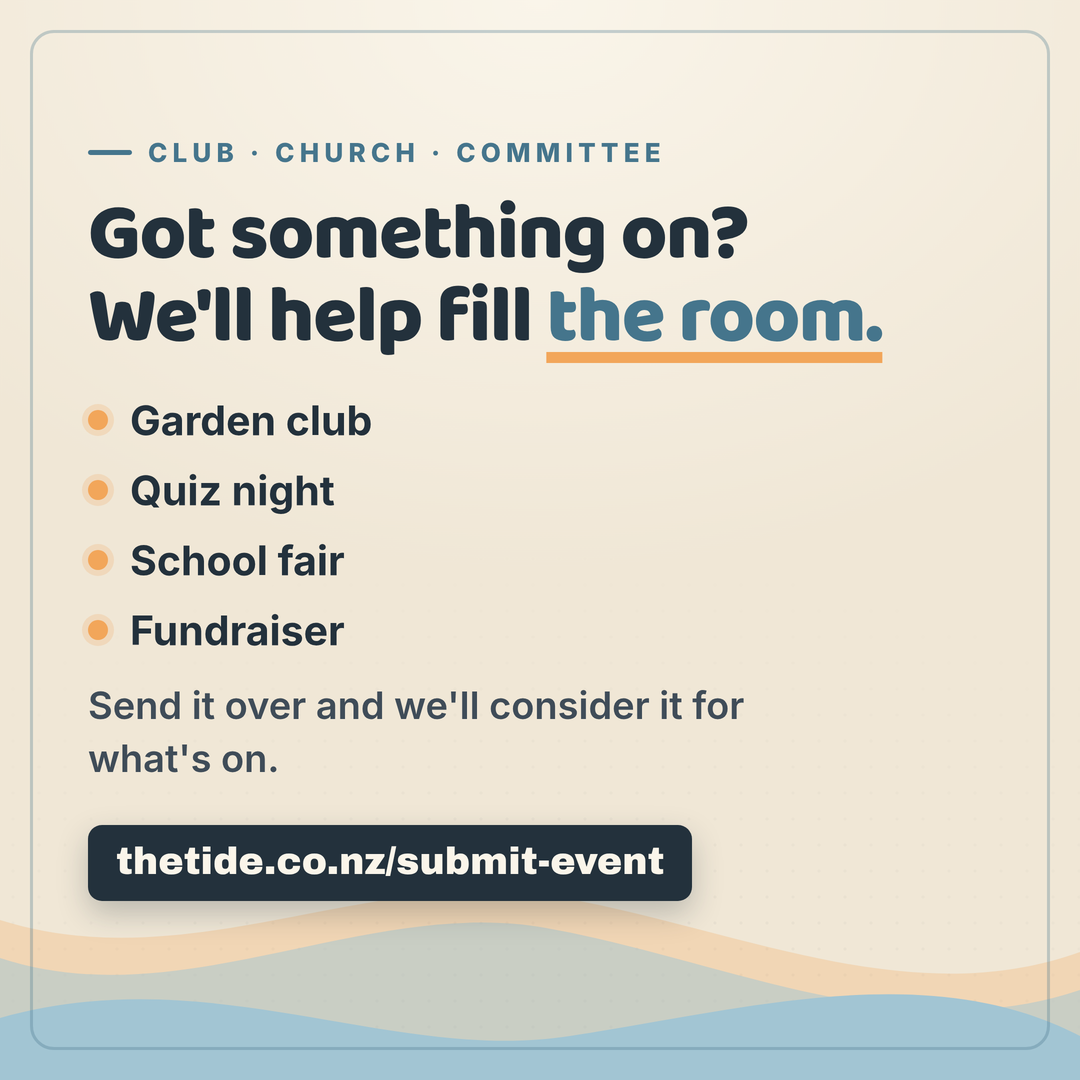
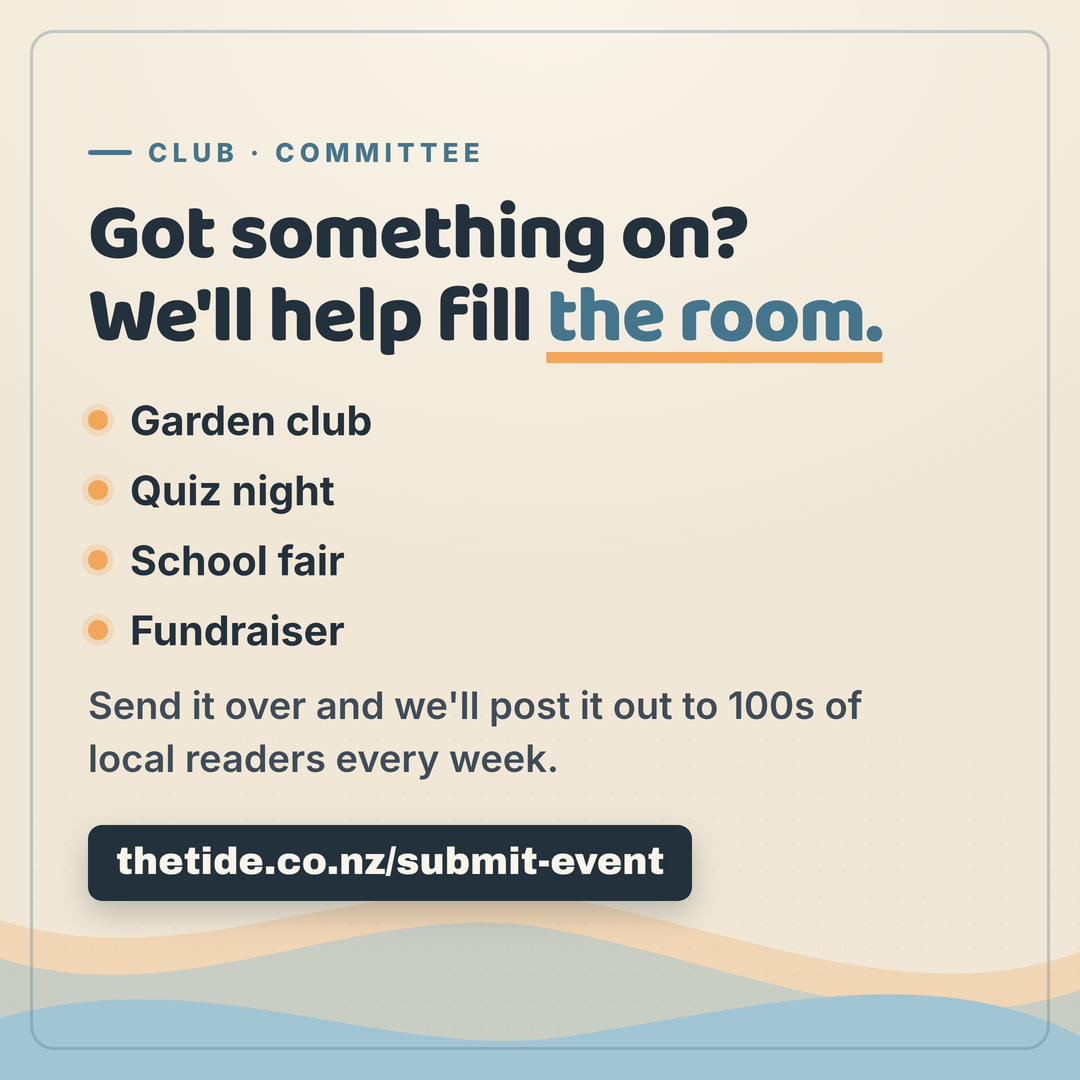
Reword the event-supply board
Drops church from the eyebrow, and swaps the closing line for a concrete
promise: submitted events go out to hundreds of local readers each week,
rather than being considered for a slot.

Noted in the README that this now outruns /submit-event, which still only
promises consideration — the two should be brought into line.

Claude-Session: https://claude.ai/code/session_015gCdazPaSGZbjYvJfz8jtr

Changed region(s): [[0.0917, 0.6417, 0.7944, 0.7333], [0.275, 0.1222, 0.6111, 0.1528]]

diff --git a/design/social/posts.html b/design/social/posts.html
@@ -807,7 +807,7 @@
       </svg>
       <div class="frame"></div>
       <div class="inner left roomy">
-        <p class="eyebrow">Club · Church · Committee</p>
+        <p class="eyebrow">Club · Committee</p>
         <h1 class="small">Got something on?<br />We'll help fill <em class="marked">the room.</em></h1>
         <div class="list">
           <p class="item">Garden club</p>
@@ -815,7 +815,7 @@
           <p class="item">School fair</p>
           <p class="item">Fundraiser</p>
         </div>
-        <p class="sub">Send it over and we'll consider it for what's on.</p>
+        <p class="sub">Send it over and we'll post it out to 100s of local readers every week.</p>
         <div class="cta">
           <div class="url path">thetide.co.nz/submit-event</div>
         </div>

diff --git a/design/social/README.md b/design/social/README.md
@@ -68,7 +68,7 @@ layouts and four grounds instead:
 | 06 | `06-which-coast-cafe.png` | Best café on the Coast | Share mechanic + food |
 | 07 | `07-same-day-same-voice.png` | Same day, same voice | Reliability |
 | 08 | `08-no-app-no-password.png` | No app, no password | Removes friction |
-| 09 | `09-got-something-on.png` | Club, church, committee | Event supply |
+| 09 | `09-got-something-on.png` | Club, committee | Event supply |
 | 10 | `10-know-someone-whod-love-this.png` | Forward it on | Word of mouth |
 
 Carol is not the whole Coast — the young-family belt around Millwater barely
@@ -84,9 +84,12 @@ readers to nominate a local legend and a café, and both point at
 nomination up first or hold those two back.
 
 Everything else is checked against a page in `src/pages`: the reader count and
-"free forever" from the home page, the suburbs from `/reader-survey`, the
-submission promise from `/submit-event`. Events are described as submitted for
-consideration, not guaranteed a slot, because that's what the form says.
+"free forever" from the home page, the suburbs from `/reader-survey`.
+
+Board 09 promises submitted events get posted out to readers. `/submit-event`
+itself only says a submission will be *considered* for the what's-on section,
+so either the form's wording should follow the post or the post should soften
+back — as it stands the two disagree.
 
 Suburb names carry macrons (Ōrewa, Whangaparāoa). The site's own forms spell
 them without — worth aligning one way or the other.
